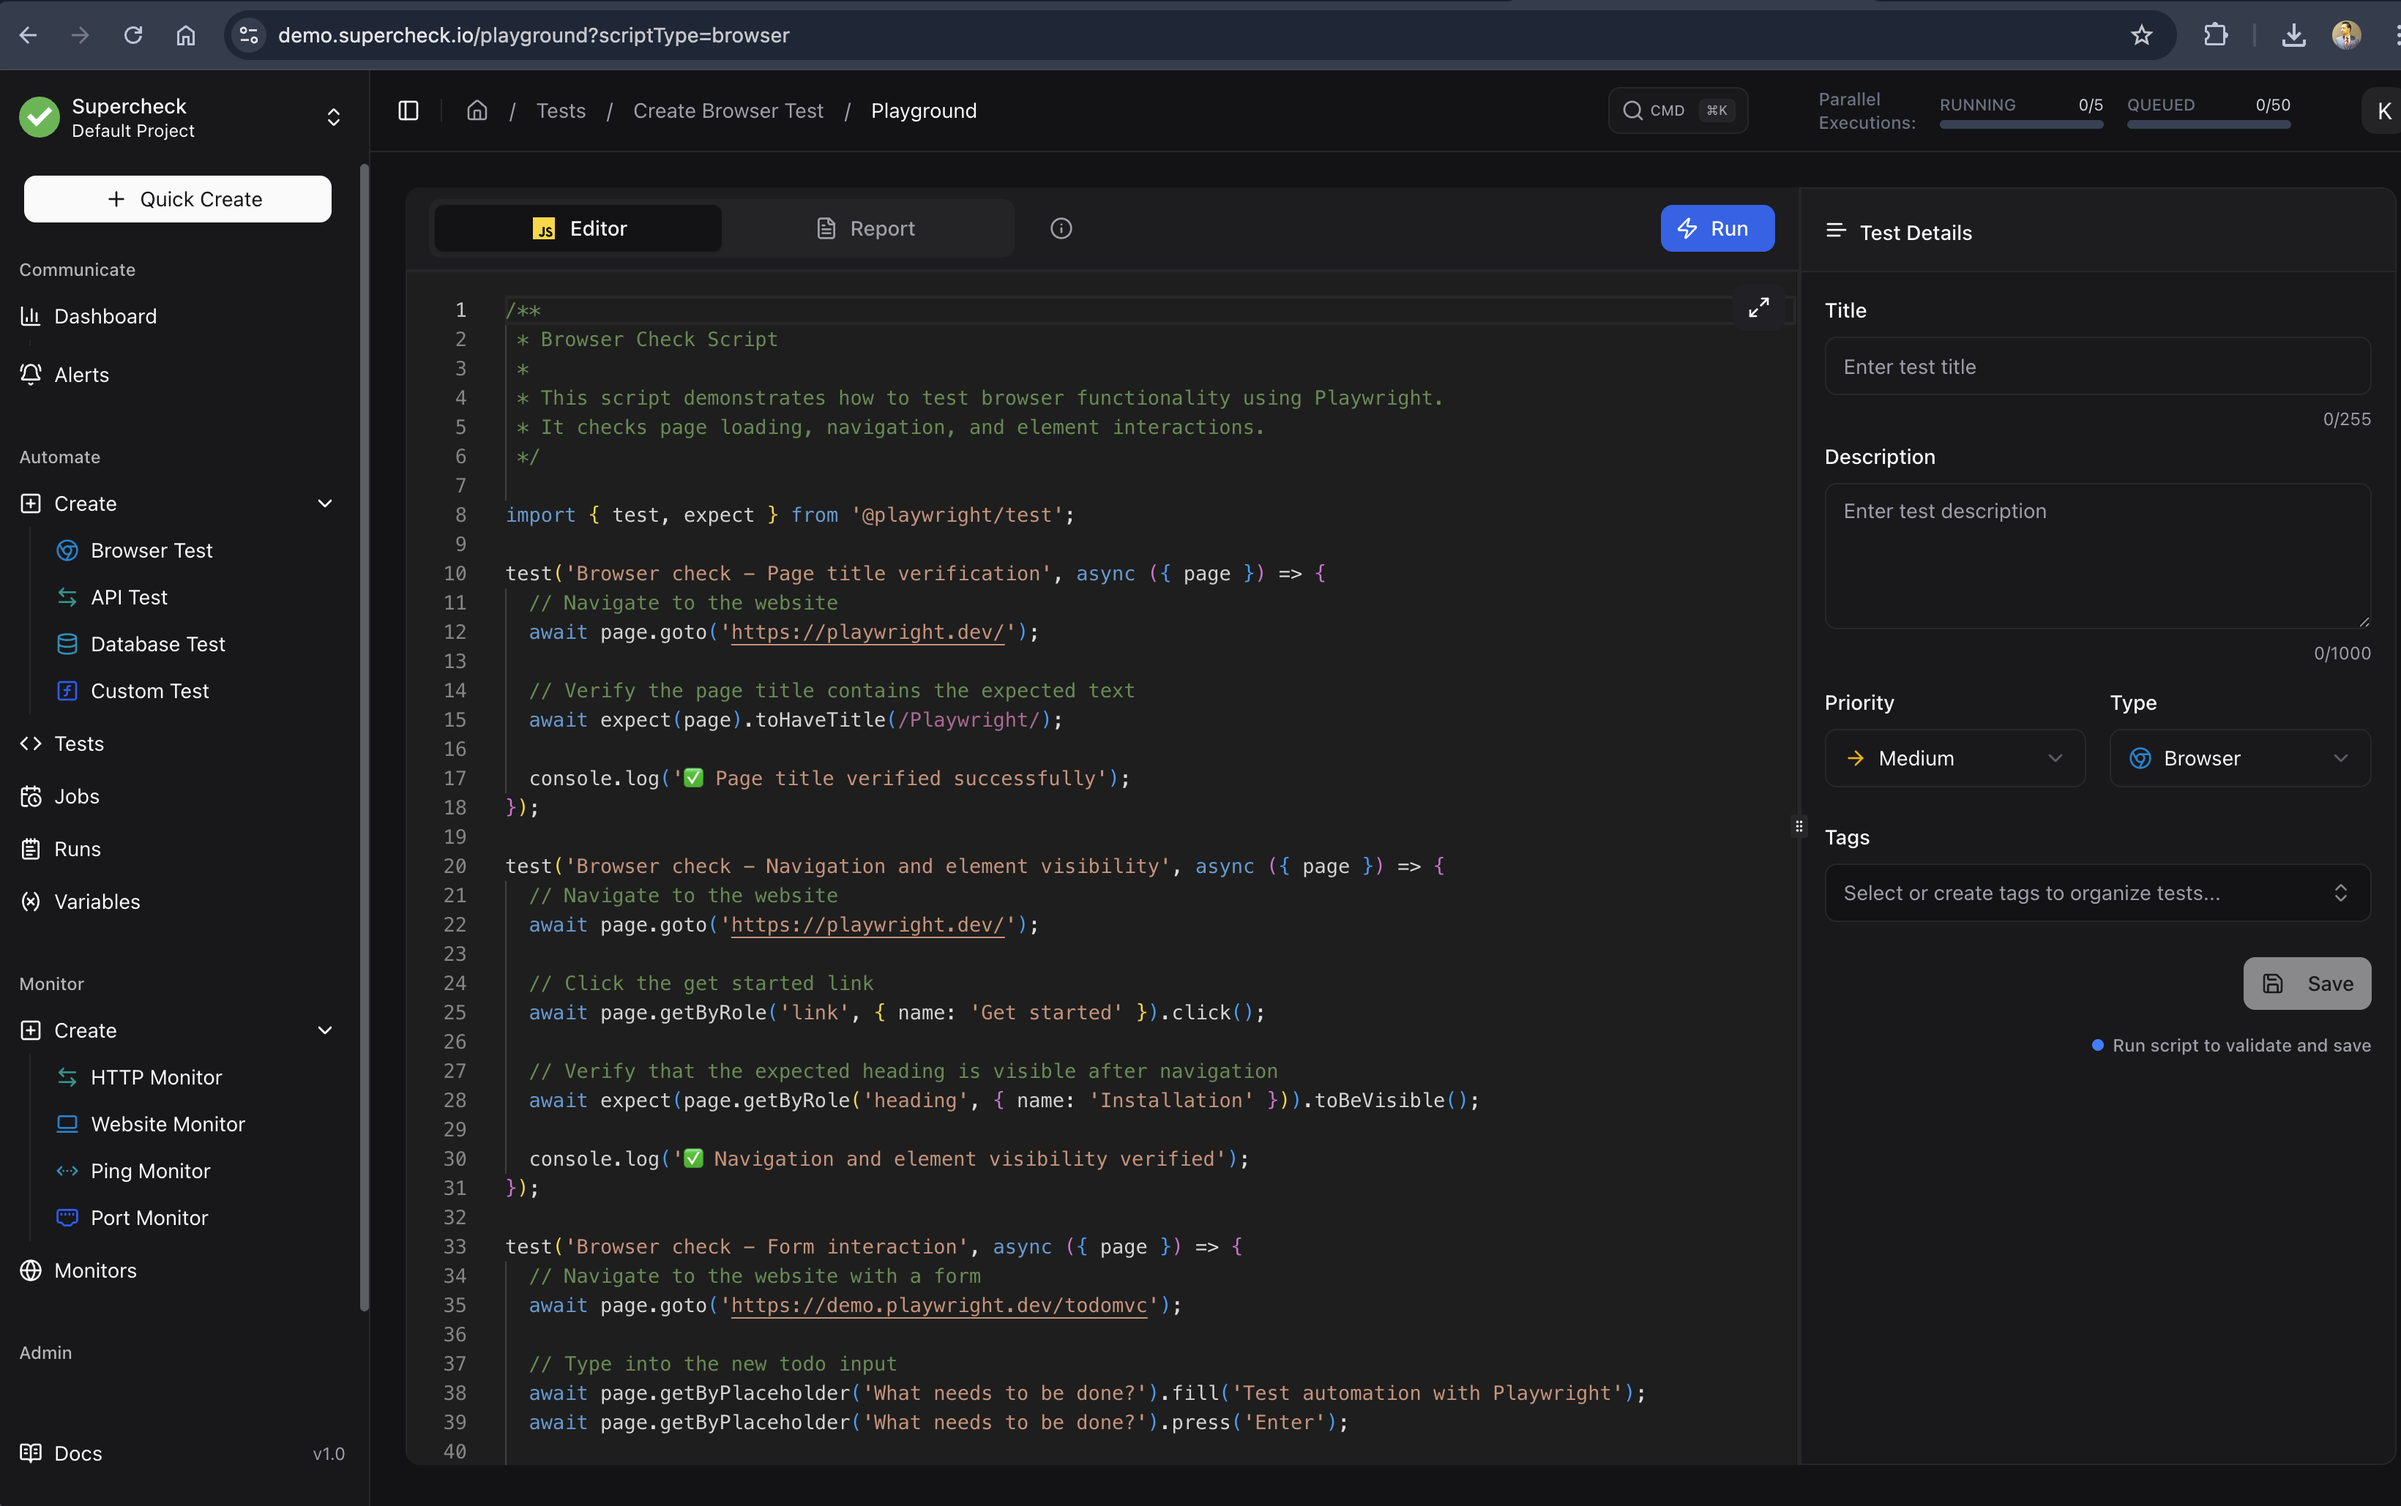
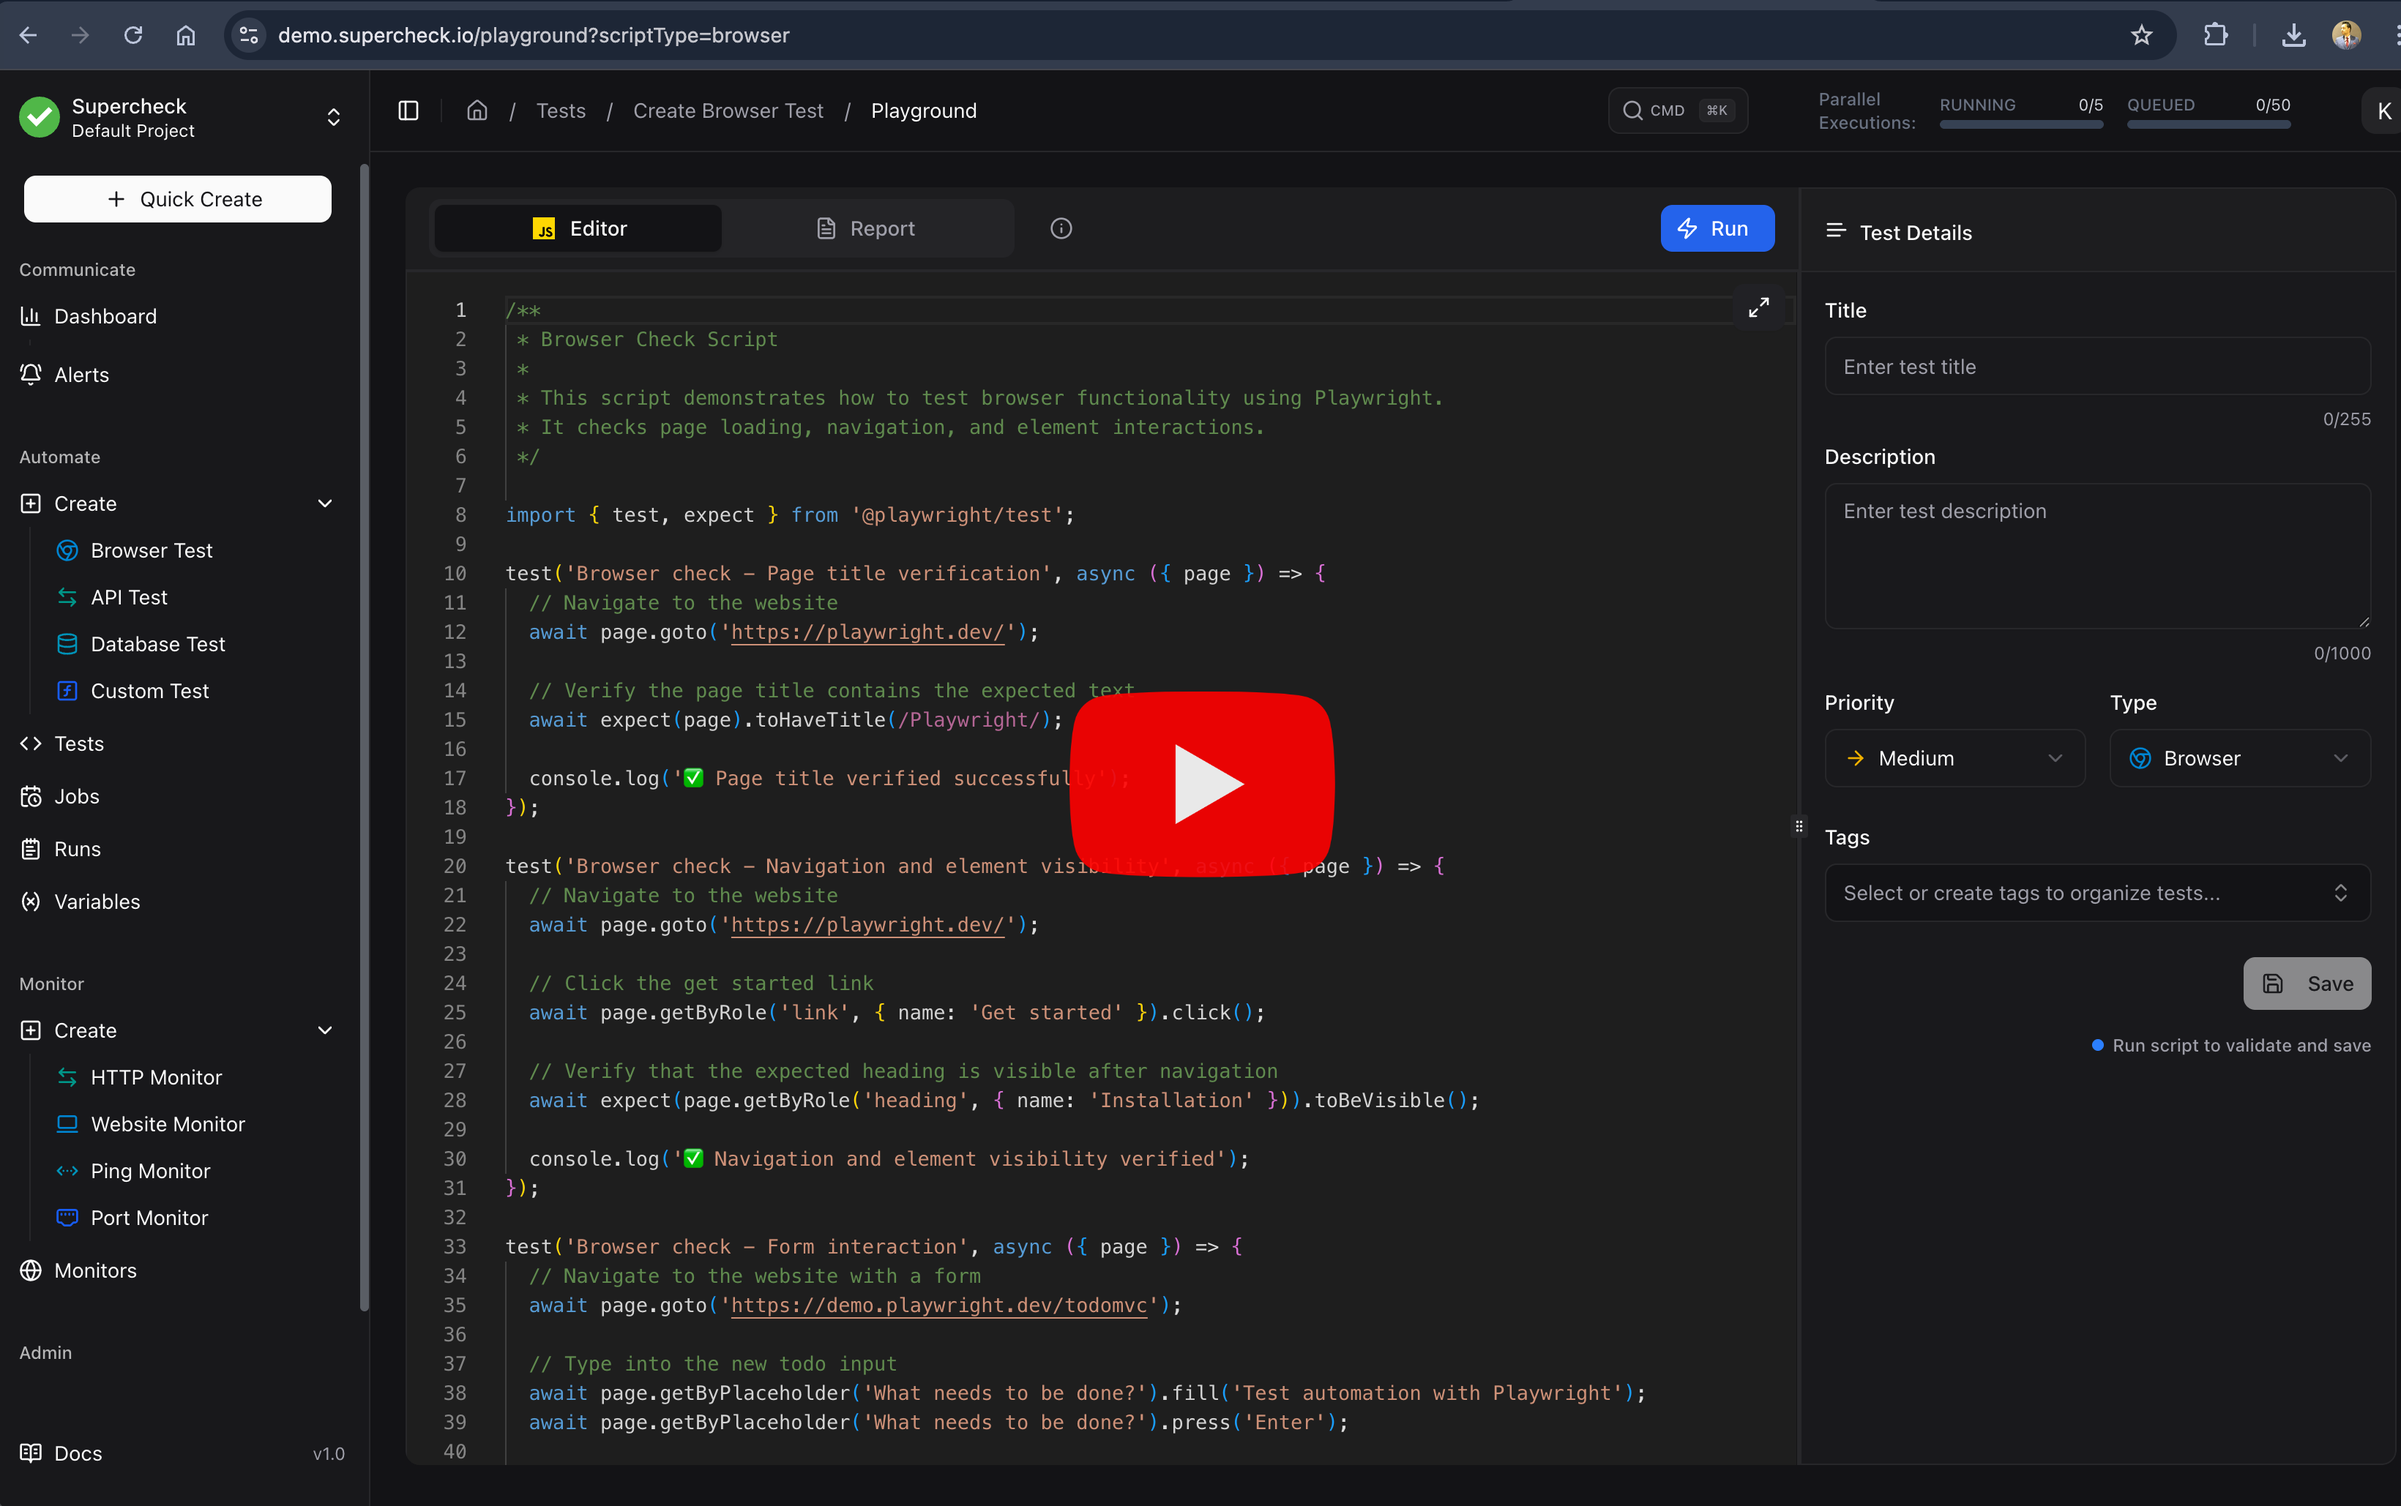
Update overview video section in README for improved accessibility and engagement

Changed region(s): [[0.4354, 0.4354, 0.5598, 0.5909], [0.0, 0.0622, 0.0311, 0.0933]]

diff --git a/README.md b/README.md
@@ -51,13 +51,7 @@ docker-compose down
 
 ## ▶ Overview Video
 
-<div align="center">
-  <a href="https://www.youtube.com/watch?v=eQ_aCghTpeI" target="_blank" style="position: relative; display: inline-block;">
-    <img src="./supercheck-app.png" alt="Supercheck Overview Video" width="1080" style="border-radius: 8px;">
-    <div style="position: absolute; top: 50%; left: 50%; transform: translate(-50%, -50%); font-size: 80px; color: white; text-shadow: 2px 2px 4px rgba(0,0,0,0.7); pointer-events: none;">▶</div>
-  </a>
-  <p>🔴 <em>Click to watch the Supercheck platform overview on Youtube</em></p>
-</div>
+[![Supercheck Platform Overview](./supercheck-app.png)](https://www.youtube.com/watch?v=eQ_aCghTpeI)
 
 ## ⚙ Configuration
 
